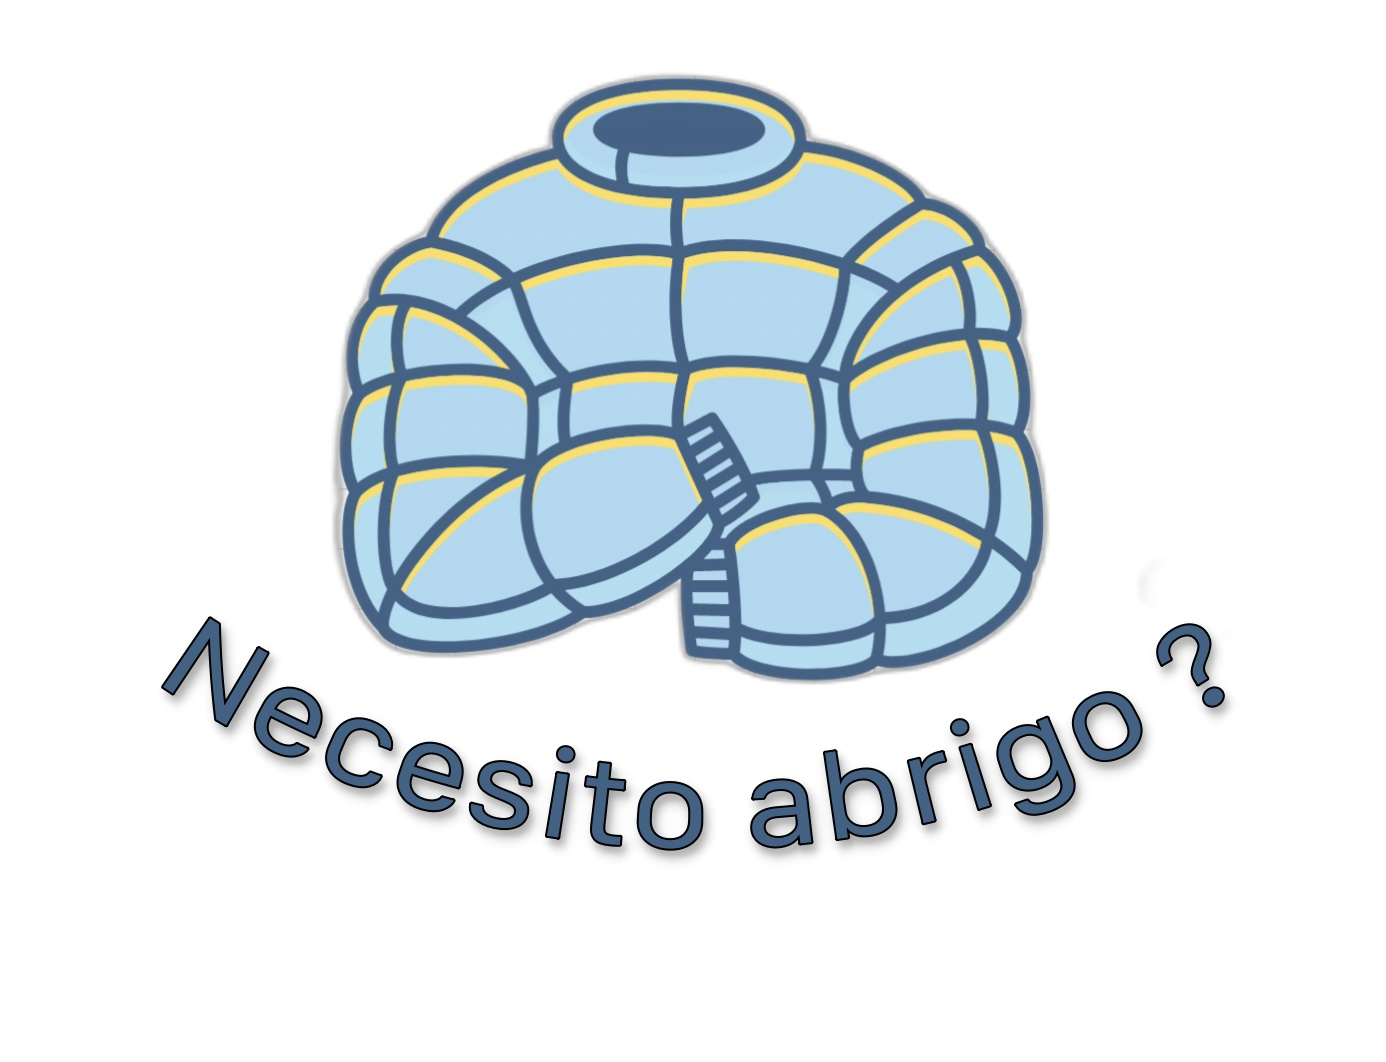
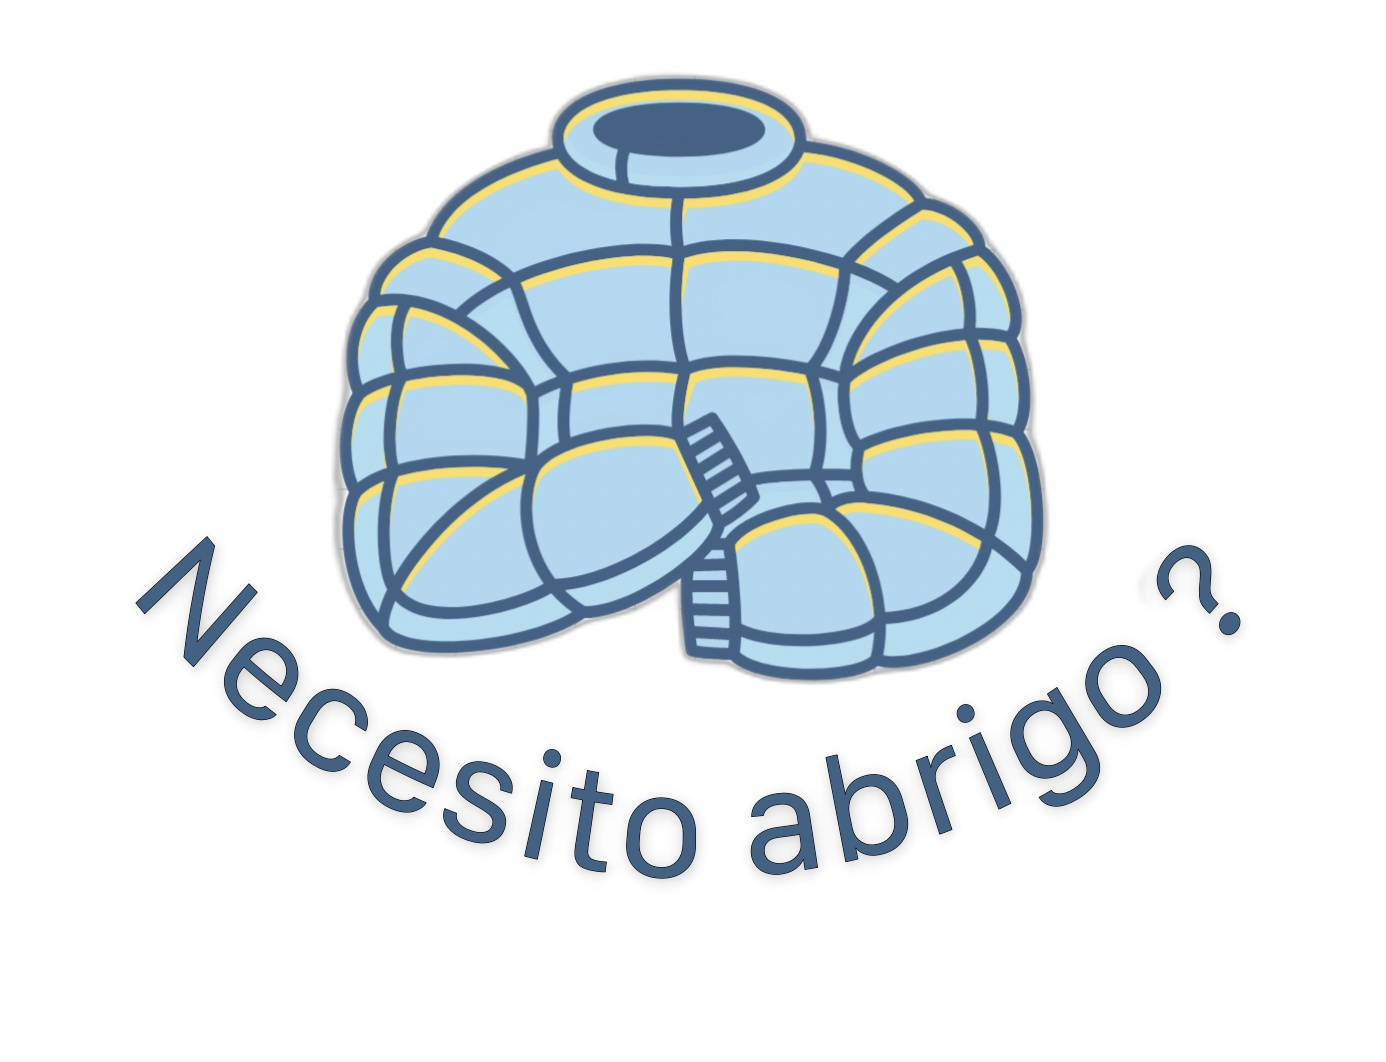
Jacket img updated, Some new changes in API calls

Changed region(s): [[0.0931, 0.4972, 0.8997, 0.839]]

diff --git a/src/components/api/weatherApi.ts b/src/components/api/weatherApi.ts
@@ -3,13 +3,14 @@ import axios from "axios";
 // let lat = 40.741895;
 // let lon = -73.989308;
 // let cityName = "London"
-
+const APIKEY1 = "510cd0b2236762abee5054069515"
 const APIKEY = "cf6dfe9efc1682d27c06de53e3233239";
 
 
-export const getCurrentWeather = async(lat:number, lon:number, weatherState:any, localState:any) => {
-    const APIURL = `https://api.openweathermap.org/data/2.5/weather?lat=${lat}&lon=${lon}&appid=${APIKEY}&lang=es`
-    await axios.get(APIURL)
+
+export const getCurrentWeather = async (lat: number, lon: number, weatherState: any, localState: any) => {
+  const APIURL = `https://api.openweathermap.org/data/2.5/weather?lat=${lat}&lon=${lon}&appid=${APIKEY}&lang=es`
+  await axios.get(APIURL)
     .then(
       (response) => {
         console.log("getCurrentWeather");
@@ -17,61 +18,93 @@ export const getCurrentWeather = async(lat:number, lon:number, weatherState:any,
         weatherState(response.data);
         localState(true);
       }
-      )
-      .catch(
-        (error) => {
-          console.log(error)
-        }
-        )
+    )
+    .catch(
+      (error) => {
+        console.log(error)
       }
-export const getCurrentWeatherOff = async(cityName:string, weatherState:any, localState:any) => {
-        const APIURL = `https://api.openweathermap.org/data/2.5/weather?q=${cityName}&appid=${APIKEY}&lang=es`
-        await axios.get(APIURL)
-        .then(
-          (response) => {
-            console.log(response);
-            weatherState(response.data);
-            localState(true);
-          }
-          )
-          .catch(
-            (error) => {
-              console.log(error)
-            }
-            )
-          }
-export const getForecastWeatherOff = async(lat:number, lon:number, weatherState:any, localState:any) => {
-            const APIURL_CITY = `https://api.openweathermap.org/data/2.5/forecast?lat=${lat}&lon=${lon}&appid=${APIKEY}&lang=es`
-            axios.get(APIURL_CITY)
-            .then(
-              (response) => {
-                console.log("getForecastWeatherOff");
-                console.log(response)
-                weatherState(response.data)
-                localState(false);
-              }
-              )
-              .catch(
-                (error) => {
-                  console.log(error)
-                }
-                )
-              }    
-export const getForecastWeather = async(cityName:string, weatherState:any, localState:any) => {
-        const APIURL_CITY = `https://api.openweathermap.org/data/2.5/forecast?q=${cityName}&appid=${APIKEY}&lang=es`
-        axios.get(APIURL_CITY)
-        .then(
-          (response) => {
-            console.log(response)
-            weatherState(response.data)
-            localState(false);
-          }
-          )
-          .catch(
-            (error) => {
-              console.log(error)
-            }
-            )
-          }
-              
-    
+    )
+}
+export const getCurrentWeatherOff = async (cityName: string, weatherState: any, localState: any) => {
+  const APIURL = `https://api.openweathermap.org/data/2.5/weather?q=${cityName}&appid=${APIKEY}&lang=es`
+  await axios.get(APIURL)
+    .then(
+      (response) => {
+        console.log(response);
+        weatherState(response.data);
+        localState(true);
+      }
+    )
+    .catch(
+      (error) => {
+        console.log(error)
+      }
+    )
+}
+export const getForecastWeatherOff = async (lat: number, lon: number, weatherState: any, localState: any) => {
+  const APIURL_CITY = `https://api.openweathermap.org/data/2.5/forecast?lat=${lat}&lon=${lon}&appid=${APIKEY}&lang=es`
+  axios.get(APIURL_CITY)
+    .then(
+      (response) => {
+        console.log("getForecastWeatherOff");
+        console.log(response)
+        weatherState(response.data)
+        localState(false);
+      }
+    )
+    .catch(
+      (error) => {
+        console.log(error)
+      }
+    )
+}
+export const getForecastWeather = async (cityName: string, weatherState: any, localState: any) => {
+  const APIURL_CITY = `https://api.openweathermap.org/data/2.5/forecast?q=${cityName}&appid=${APIKEY}&lang=es`
+  axios.get(APIURL_CITY)
+    .then(
+      (response) => {
+        console.log(response)
+        weatherState(response.data)
+        localState(false);
+      }
+    )
+    .catch(
+      (error) => {
+        console.log(error)
+      }
+    )
+}
+export const getDailyWeather = async (cityName: string, weatherState: any, localState: any) => {
+  const APIURL_CITY = `https://api.openweathermap.org/data/2.5/onecall?q=${cityName}&exclude=current,minutely,hourly,alerts&appid=1fa9ff4126d95b8db54f3897a208e91c&units=metric&lang=es`
+  axios.get(APIURL_CITY)
+    .then(
+      (response) => {
+        console.log(response)
+        weatherState(response.data)
+        localState(false);
+      }
+    )
+    .catch(
+      (error) => {
+        console.log(error)
+      }
+    )
+}
+
+export const getDailyWeatherOff = async (lat: number, lon: number, weatherState: any, localState: any) => {
+  const APIURL_CITY = `https://api.openweathermap.org/data/2.5/onecall?lat=${lat}&lon=${lon}&exclude=current,minutely,hourly,alerts&appid=1fa9ff4126d95b8db54f3897a208e91c&units=metric/infoType`
+  axios.get(APIURL_CITY)
+    .then(
+      (response) => {
+        console.log("DAILYYYYYY");
+        console.log(response)
+        weatherState(response.data)
+        localState(false);
+      }
+    )
+    .catch(
+      (error) => {
+        console.log(error)
+      }
+    )
+}

diff --git a/src/components/WeatherCards/WeatherCards.tsx b/src/components/WeatherCards/WeatherCards.tsx
@@ -39,10 +39,14 @@ export default function WeatherCards(weather:any) {
   
   const next6Hours = weatherContext?.forecastWeatherData.list  && weatherContext?.forecastWeatherData?.list[1]?.main;
   const next9Hours = weatherContext?.forecastWeatherData.list  && weatherContext?.forecastWeatherData?.list[2]?.main;
-  const tomorrow = weatherContext?.forecastWeatherData.list  && weatherContext?.forecastWeatherData?.list[4]?.main;
-  const tomorrowIcon = weatherContext?.forecastWeatherData.list  && weatherContext?.forecastWeatherData?.list[4]?.weather[0]?.icon;
-  const tomorrowDescription = weatherContext?.forecastWeatherData.list  && weatherContext?.forecastWeatherData?.list[4]?.weather[0]?.description;
-  const tomorrowTemp =weatherContext?.forecastWeatherData.list  && convertToCelsius(weatherContext?.forecastWeatherData?.list[4]?.main?.temp_max) ;
+  const tomorrow = weatherContext?.forecastWeatherData.list  && weatherContext?.forecastWeatherData?.list[3]?.main;
+  console.log(weatherContext?.forecastWeatherData.list  && weatherContext?.forecastWeatherData?.list[2]);
+  
+  const tomorrowIcon = weatherContext?.forecastWeatherData.list  && weatherContext?.forecastWeatherData?.list[1]?.weather[0]?.icon;
+  const tomorrowDescription = weatherContext?.forecastWeatherData.list  && weatherContext?.forecastWeatherData?.list[3]?.weather[0]?.description;
+  const tomorrowTemp =weatherContext?.forecastWeatherData.list  && convertToCelsius(weatherContext?.forecastWeatherData?.list[3]?.main?.temp_max);
+  const tomorrowWind = weatherContext?.forecastWeatherData.list  && weatherContext?.forecastWeatherData?.list[3]?.wind.speed;
+
   const tomorrowIconUrl = `http://openweathermap.org/img/w/${tomorrowIcon}.png`;
 
 
@@ -82,8 +86,8 @@ export default function WeatherCards(weather:any) {
           <div className={classes["cardGroup-parragraph"]}>
             <h3>{convertToCelsius(tomorrow?.temp) < needJacket ? <b>SI</b> : <b>NO</b>}</h3>
             <p>{tomorrowDescription?.charAt(0)?.toUpperCase() + description?.slice(1)}</p>
-            <p>Temperatura Máxima: {Math.round(temp)} C°</p>
-            <p>Viento: {wind} km/h</p>
+            <p>Temperatura Máxima: {Math.round(tomorrowTemp)} C°</p>
+            <p>Viento: {tomorrowWind} km/h</p>
             <p>LLuvia:</p>
           </div>
         </div>

diff --git a/src/components/WeatherContainer/WeatherContainer.tsx b/src/components/WeatherContainer/WeatherContainer.tsx
@@ -1,6 +1,6 @@
 import { useEffect } from 'react';
 import { useWeatherContext } from '../../context/weatherContext';
-import { getCurrentWeather, getForecastWeather, getForecastWeatherOff } from '../api/weatherApi';
+import { getCurrentWeather, getDailyWeatherOff, getForecastWeather, getForecastWeatherOff } from '../api/weatherApi';
 import SpinnerComp from '../SpinnerComp/SpinnerComp';
 import WeatherCards from "../WeatherCards/WeatherCards"
 import classes from "../WeatherContainer/WeatherContainer.module.scss";
@@ -27,8 +27,9 @@ function WeatherContainer() {
           if (location) {
             const lat = location.coords.latitude;
             const lon = location.coords.longitude;
-            getCurrentWeather(lat, lon, weatherContext.setCurrentWeatherData, weatherContext.setIsLocal);
+           // getCurrentWeather(lat, lon, weatherContext.setCurrentWeatherData, weatherContext.setIsLocal);
             getForecastWeatherOff(lat, lon, weatherContext.setForecastWeatherData, weatherContext.setIsLocal )
+            getDailyWeatherOff(lat, lon, weatherContext.setCurrentWeatherData, weatherContext.setIsLocal)
           };
         });
       }
@@ -41,7 +42,7 @@ function WeatherContainer() {
   return (
     <div className={classes["weatherContainer"]}>
       <div className={classes["weatherContainer-imgContainer"]}>
-        <img className={classes["weatherContainer-img"]} src="./img/Jacket.png" alt='Jacket'/>
+        <img className={classes["weatherContainer-img"]} src="./img/Jacket.jpg" alt='Jacket'/>
       </div>
       <div className={classes["weatherContainer-cards"]} >
 

diff --git a/src/components/WeatherContainer/WeatherContainer.module.scss b/src/components/WeatherContainer/WeatherContainer.module.scss
@@ -2,7 +2,7 @@
 
 .weatherContainer{
   height: 80vh;
-  width: 90vw;
+  width: 100vw;
   display: flex;
   justify-content: center;
   align-items: center;
@@ -16,11 +16,11 @@
   }
   
   &-img {
-    width: 25em;
+    height: 30em;
   }
   &-cards{
     height:60vh ;
-    width: 60vw;
+    width: 50vw;
     display: flex;
     flex-direction: column;
     align-items: center;

diff --git a/src/components/WeatherCards/WeatherCards.module.scss b/src/components/WeatherCards/WeatherCards.module.scss
@@ -2,7 +2,7 @@
 
 
 .cardGroup{
-  width: 60vw;
+  width: 50vw;
   display: flex;
   justify-content: space-around;
   font-family: 'Palanquin', sans-serif;
